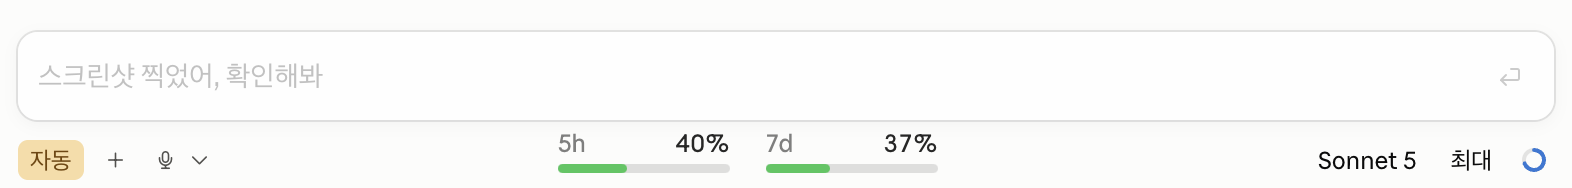
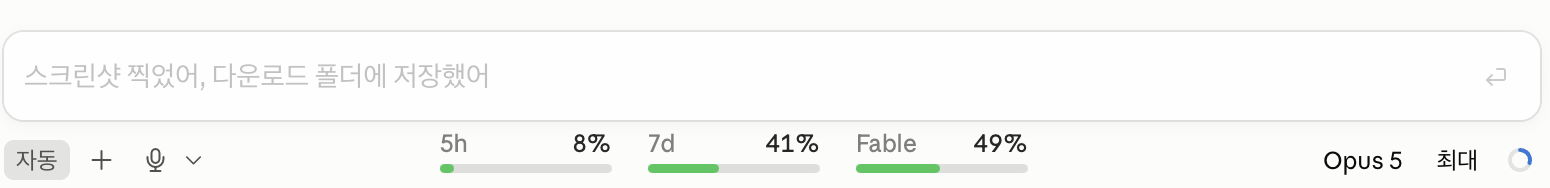
Add per-model weekly usage bar (e.g. Fable)
The desktop app never persists these figures: plan-usage-history.json
only carries its eight legacy named windows, and the per-model ones all
come back null. The real values live solely in the server-driven
`limits[]` array of the /usage response, so read that response body back
out of Chromium's HTTP cache.

Strictly best-effort — it touches no credentials, makes no network
request, and every failure path (missing zstd, cache format change,
evicted entry) just hides the extra bar while 5h/7d keep working.
Opt out with "showModelLimits": false.

diff --git a/Sources/ClaudeUsageOverlay/LimitsCache.swift b/Sources/ClaudeUsageOverlay/LimitsCache.swift
@@ -1,0 +1,150 @@
+import Foundation
+
+// MARK: - Per-model usage limits (e.g. "Fable" weekly)
+//
+// The desktop app polls GET /api/organizations/<org>/usage every ~4.5 min. That
+// response carries a server-driven `limits[]` array which is the ONLY place the
+// per-model figures live:
+//
+//   {"kind":"weekly_scoped","percent":49,
+//    "scope":{"model":{"display_name":"Fable"}}, ...}
+//
+// Unlike five_hour/seven_day, these are NOT written to plan-usage-history.json —
+// the app persists only its eight legacy named windows, and for this account all
+// of the per-model ones come back null. So the response body cached by Chromium
+// is the only on-disk copy.
+//
+// This reader is strictly best-effort: it only ever reads a cached RESPONSE BODY
+// (never cookies or any credential), and every failure path returns nil so the
+// 5h/7d bars — which come from the far more stable history file — keep working.
+
+struct ModelLimit: Equatable {
+    let name: String     // e.g. "Fable"
+    let percent: Double
+}
+
+enum LimitsCache {
+    private static let cacheDir = FileManager.default.homeDirectoryForCurrentUser
+        .appendingPathComponent("Library/Application Support/Claude/Cache/Cache_Data")
+
+    // Chromium "simple cache" entry framing.
+    private static let entryMagic = Data([0x30, 0x5c, 0x72, 0xa7, 0x1b, 0x6d, 0xfb, 0xfc])
+    private static let eofMagic = Data([0xd8, 0x41, 0x0d, 0x97, 0x45, 0x6f, 0xfa, 0xf4])
+    private static let zstdMagic = Data([0x28, 0xb5, 0x2f, 0xfd])
+
+    /// Newest cached /usage response, if it is fresh enough to trust.
+    static func modelLimits(staleAfter: TimeInterval) -> [ModelLimit]? {
+        guard let (data, mtime) = newestUsageEntry() else { return nil }
+        guard Date().timeIntervalSince(mtime) < staleAfter else { return nil }
+        guard let json = decodeBody(data) else { return nil }
+        return parseLimits(json)
+    }
+
+    // MARK: - Locating the entry
+
+    private static func newestUsageEntry() -> (Data, Date)? {
+        let keys: Set<URLResourceKey> = [.contentModificationDateKey]
+        guard let entries = try? FileManager.default.contentsOfDirectory(
+            at: cacheDir,
+            includingPropertiesForKeys: Array(keys),
+            options: [.skipsHiddenFiles]) else { return nil }
+
+        // Cache_Data holds thousands of files; only inspect the most recent few.
+        let candidates = entries
+            .filter { $0.lastPathComponent.hasSuffix("_0") && $0.lastPathComponent.count == 18 }
+            .compactMap { url -> (URL, Date)? in
+                guard let m = try? url.resourceValues(forKeys: keys).contentModificationDate
+                else { return nil }
+                return (url, m)
+            }
+            .sorted { $0.1 > $1.1 }
+            .prefix(60)
+
+        for (url, mtime) in candidates {
+            guard let data = try? Data(contentsOf: url, options: .mappedIfSafe),
+                  data.count > 32,
+                  data.prefix(8) == entryMagic else { continue }
+
+            let keyLen = Int(data.withUnsafeBytes { $0.loadUnaligned(fromByteOffset: 12, as: UInt32.self) })
+            let keyStart = 24
+            guard keyLen > 0, keyLen < 4096, data.count > keyStart + keyLen else { continue }
+            let key = String(decoding: data[keyStart..<(keyStart + keyLen)], as: UTF8.self)
+            guard key.contains("/usage") else { continue }
+
+            let bodyStart = keyStart + keyLen
+            guard let eof = data.range(of: eofMagic, in: bodyStart..<data.count) else { continue }
+            let body = data[bodyStart..<eof.lowerBound]
+            guard !body.isEmpty else { continue }
+            return (Data(body), mtime)
+        }
+        return nil
+    }
+
+    // MARK: - Decoding
+
+    /// Bodies are zstd-compressed in practice. macOS has no zstd in its
+    /// Compression framework and ships no libzstd, so shell out when a binary is
+    /// available; otherwise give up quietly (the feature just stays hidden).
+    private static func decodeBody(_ body: Data) -> Any? {
+        if body.prefix(4) != zstdMagic {
+            // Uncompressed (or an encoding we do not handle) — try as-is.
+            return try? JSONSerialization.jsonObject(with: body)
+        }
+        guard let zstd = zstdBinary() else {
+            Log.once("zstd binary not found; per-model limits unavailable")
+            return nil
+        }
+        guard let raw = runZstd(zstd, input: body) else { return nil }
+        return try? JSONSerialization.jsonObject(with: raw)
+    }
+
+    private static func zstdBinary() -> String? {
+        for p in ["/opt/homebrew/bin/zstd", "/usr/local/bin/zstd", "/usr/bin/zstd"]
+        where FileManager.default.isExecutableFile(atPath: p) {
+            return p
+        }
+        return nil
+    }
+
+    private static func runZstd(_ path: String, input: Data) -> Data? {
+        let p = Process()
+        p.executableURL = URL(fileURLWithPath: path)
+        p.arguments = ["-dc"]
+        let stdin = Pipe(), stdout = Pipe(), stderr = Pipe()
+        p.standardInput = stdin
+        p.standardOutput = stdout
+        p.standardError = stderr
+        do {
+            try p.run()
+        } catch {
+            return nil
+        }
+        // Write on a background queue so a full pipe buffer cannot deadlock us.
+        DispatchQueue.global(qos: .utility).async {
+            stdin.fileHandleForWriting.write(input)
+            try? stdin.fileHandleForWriting.close()
+        }
+        let out = stdout.fileHandleForReading.readDataToEndOfFile()
+        _ = stderr.fileHandleForReading.readDataToEndOfFile()
+        p.waitUntilExit()
+        return p.terminationStatus == 0 && !out.isEmpty ? out : nil
+    }
+
+    // MARK: - Parsing
+
+    /// Pull every model-scoped window out of `limits[]`, newest schema first.
+    private static func parseLimits(_ json: Any) -> [ModelLimit] {
+        guard let root = json as? [String: Any],
+              let limits = root["limits"] as? [[String: Any]] else { return [] }
+        var out: [ModelLimit] = []
+        for l in limits {
+            guard let scope = l["scope"] as? [String: Any],
+                  let model = scope["model"] as? [String: Any],
+                  let name = model["display_name"] as? String,
+                  !name.isEmpty,
+                  let pct = l["percent"] as? Double else { continue }
+            out.append(ModelLimit(name: name, percent: pct))
+        }
+        return out
+    }
+}

diff --git a/Sources/ClaudeUsageOverlay/UsageStore.swift b/Sources/ClaudeUsageOverlay/UsageStore.swift
@@ -24,11 +24,18 @@ struct Tunables: Decodable, Equatable {
     var titleSize: CGFloat = 12
     var valueSize: CGFloat = 12
 
-    var panelW: CGFloat { barW * 2 + groupGap + sidePad * 2 }
+    /// Show an extra bar per model-scoped weekly limit (e.g. "Fable"), when one
+    /// is available. See LimitsCache for why this can silently stay hidden.
+    var showModelLimits = true
+
+    func panelW(bars: Int) -> CGFloat {
+        let n = max(1, bars)
+        return barW * CGFloat(n) + groupGap * CGFloat(n - 1) + sidePad * 2
+    }
 
     private enum CodingKeys: String, CodingKey {
         case barW, groupGap, panelH, sidePad, scale, centerAboveBottom
-        case titleFont, valueFont, titleSize, valueSize
+        case titleFont, valueFont, titleSize, valueSize, showModelLimits
     }
 
     init() {}
@@ -46,6 +53,7 @@ struct Tunables: Decodable, Equatable {
         valueFont = try c.decodeIfPresent(String.self, forKey: .valueFont) ?? d.valueFont
         titleSize = try c.decodeIfPresent(CGFloat.self, forKey: .titleSize) ?? d.titleSize
         valueSize = try c.decodeIfPresent(CGFloat.self, forKey: .valueSize) ?? d.valueSize
+        showModelLimits = try c.decodeIfPresent(Bool.self, forKey: .showModelLimits) ?? d.showModelLimits
     }
 }
 
@@ -54,7 +62,11 @@ struct Tunables: Decodable, Equatable {
 final class UsageStore: ObservableObject {
     @Published private(set) var fiveHour: Double?
     @Published private(set) var sevenDay: Double?
+    @Published private(set) var modelLimits: [ModelLimit] = []
     @Published private(set) var tun = Tunables()
+
+    /// Total bars currently rendered — drives the panel width.
+    var barCount: Int { 2 + modelLimits.count }
 
     /// Samples older than this are treated as unknown ("--").
     private let staleAfter: TimeInterval = 90 * 60
@@ -63,6 +75,7 @@ final class UsageStore: ObservableObject {
         .appendingPathComponent("Library/Application Support/Claude/plan-usage-history.json")
     private let tunablesPath: URL
     private var timer: Timer?
+    private var limitsTimer: Timer?
 
     init(projectDir: URL) {
         tunablesPath = projectDir.appendingPathComponent("tunables.json")
@@ -74,6 +87,34 @@ final class UsageStore: ObservableObject {
             self?.refresh()
         }
         timer?.tolerance = 5
+
+        // Heavier than the history-file read (scans the HTTP cache and shells
+        // out to zstd), and the app only refetches every ~4.5 min, so poll it
+        // far less often and off the main thread.
+        refreshModelLimits()
+        limitsTimer = Timer.scheduledTimer(withTimeInterval: 60, repeats: true) { [weak self] _ in
+            self?.refreshModelLimits()
+        }
+        limitsTimer?.tolerance = 15
+    }
+
+    private func refreshModelLimits() {
+        guard tun.showModelLimits else {
+            if !modelLimits.isEmpty { modelLimits = [] }
+            return
+        }
+        let cutoff = staleAfter
+        DispatchQueue.global(qos: .utility).async { [weak self] in
+            let found = LimitsCache.modelLimits(staleAfter: cutoff) ?? []
+            DispatchQueue.main.async {
+                guard let self, self.modelLimits != found else { return }
+                if !found.isEmpty {
+                    let desc = found.map { "\($0.name)=\(Int($0.percent))%" }.joined(separator: " ")
+                    Log.once("model limits: \(desc)")
+                }
+                self.modelLimits = found
+            }
+        }
     }
 
     private struct History: Decodable {
@@ -136,5 +177,17 @@ enum Log {
         } else {
             try? line.write(to: path, atomically: true, encoding: .utf8)
         }
+    }
+
+    private static var seen = Set<String>()
+    private static let seenLock = NSLock()
+
+    /// Log a message only the first time it appears — for state polled on a
+    /// timer, where repeating the same line every minute would bury the log.
+    static func once(_ msg: String) {
+        seenLock.lock()
+        let isNew = seen.insert(msg).inserted
+        seenLock.unlock()
+        if isNew { write(msg) }
     }
 }

diff --git a/Sources/ClaudeUsageOverlay/OverlayUI.swift b/Sources/ClaudeUsageOverlay/OverlayUI.swift
@@ -43,10 +43,15 @@ struct OverlayView: View {
         HStack(spacing: t.groupGap) {
             BarGroup(title: "5h", pct: store.fiveHour, tun: t)
             BarGroup(title: "7d", pct: store.sevenDay, tun: t)
+            // One extra bar per model-scoped weekly limit the API reports
+            // (e.g. "Fable"), so new ones appear without a code change.
+            ForEach(store.modelLimits, id: \.name) { limit in
+                BarGroup(title: limit.name, pct: limit.percent, tun: t)
+            }
         }
         .padding(.horizontal, t.sidePad)
         .scaleEffect(t.scale, anchor: .center)
-        .frame(width: t.panelW, height: t.panelH)
+        .frame(width: t.panelW(bars: store.barCount), height: t.panelH)
     }
 }
 
@@ -72,7 +77,7 @@ final class OverlayController: NSObject {
     private func makePanel() {
         let t = store.tun
         let p = NSPanel(
-            contentRect: NSRect(x: 0, y: 0, width: t.panelW, height: t.panelH),
+            contentRect: NSRect(x: 0, y: 0, width: t.panelW(bars: store.barCount), height: t.panelH),
             styleMask: [.borderless, .nonactivatingPanel],
             backing: .buffered,
             defer: false
@@ -122,15 +127,16 @@ final class OverlayController: NSObject {
         }
 
         let t = store.tun
+        let panelW = t.panelW(bars: store.barCount)
         let centerYAX = placement.anchorBottom - t.centerAboveBottom
         let topAX = centerYAX - t.panelH / 2
-        let x = placement.inputFrame.midX - t.panelW / 2
+        let x = placement.inputFrame.midX - panelW / 2
 
         // AX coords have a top-left origin on the primary display; AppKit a bottom-left one.
         guard let primary = NSScreen.screens.first else { return }
         let y = primary.frame.maxY - (topAX + t.panelH)
 
-        let frame = NSRect(x: x, y: y, width: t.panelW, height: t.panelH)
+        let frame = NSRect(x: x, y: y, width: panelW, height: t.panelH)
         if panel.frame != frame {
             panel.setFrame(frame, display: true)
         }
